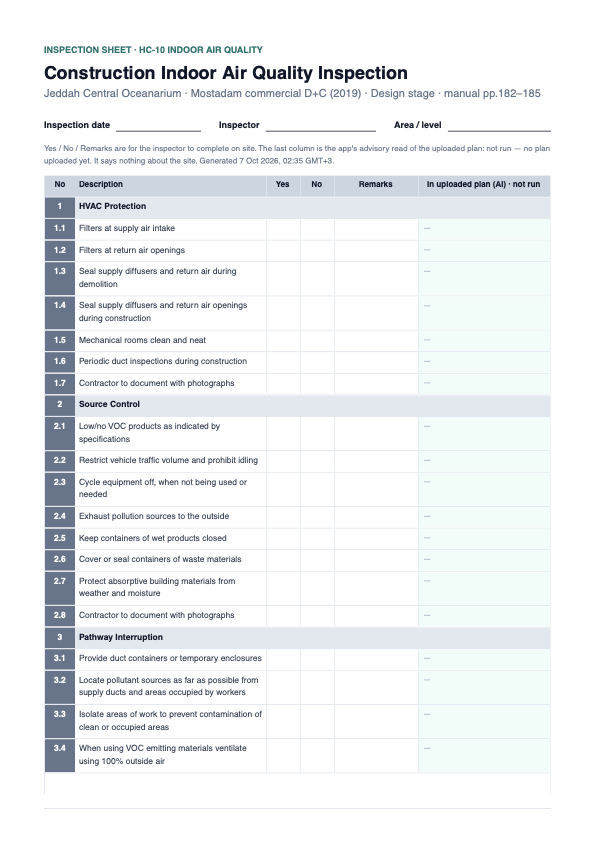
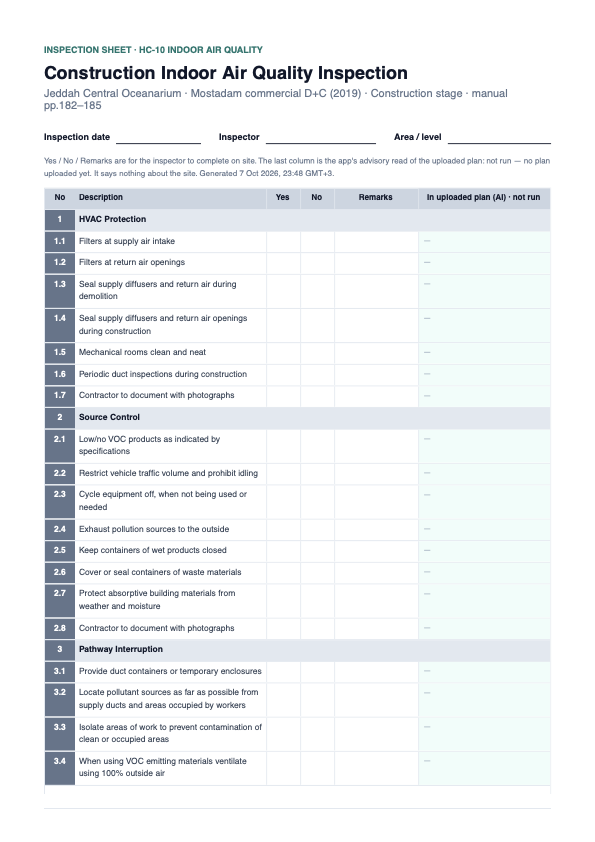
fix(report): the IAQ inspection sheet is a construction-stage form
Client feedback: the sheet is followed during construction, not design.
The header printed the project's stage, so a project at Design got a
"Design stage" sheet. The template now names the document the completed
sheet becomes ("Completed IAQ Checklist…") and the sheet takes that
document's stage tag from the catalog, which is CONSTRUCTION; an untagged
document falls back to the project's stage.

Re-downloaded both evidence sheets from the dev server: both read
Construction stage.

Changed region(s): [[0.0605, 0.0926, 0.9378, 0.9572]]

diff --git a/tests/inspection-sheet.test.ts b/tests/inspection-sheet.test.ts
@@ -1,6 +1,6 @@
 import { describe, expect, it } from "vitest";
 import type { CreditView, EvidenceAttachment, RequirementView } from "@/lib/data";
-import { buildInspectionSheet, planFileIds } from "@/lib/report/inspection-sheet";
+import { buildInspectionSheet, planFileIds, sheetStage } from "@/lib/report/inspection-sheet";
 import {
   IAQ_INSPECTION,
   templateFor,
@@ -76,6 +76,7 @@ const hc10: CreditView = {
     req({
       seq: 1,
       evidenceSpecs: ["Specifications…", "IAQ Management Plan with all control measures…", "Completed IAQ Checklist…", "Flush-out report"],
+      evidenceStages: ["design", "construction", "construction", "construction"],
       attachments: [
         file("spec", 0),
         file("plan", 1, "IAQ-Plan-rev2.pdf"),
@@ -191,5 +192,18 @@ describe("buildInspectionSheet", () => {
     ]);
     expect(m.project.stageLabel).toBe("Construction");
     expect(m.credit.pageSpan).toBe("pp.182–185");
+  });
+
+  it("is a construction-stage sheet even while the project is at design (client feedback)", () => {
+    const m = buildInspectionSheet({ ...base, stage: "design", coverage: { ran: false, reason: "x" } });
+    expect(m.project.stageLabel).toBe("Construction");
+  });
+
+  it("takes the stage from the catalog's tag, falling back to the project's when untagged", () => {
+    expect(sheetStage(hc10, IAQ_INSPECTION.sheetDocument, "design")).toBe("Construction");
+    const untagged = { ...hc10, requirements: [req({ seq: 1, evidenceSpecs: ["Completed IAQ Checklist"], evidenceStages: [null] })] };
+    expect(sheetStage(untagged, IAQ_INSPECTION.sheetDocument, "design")).toBe("Design");
+    const absent = { ...hc10, requirements: [] };
+    expect(sheetStage(absent, IAQ_INSPECTION.sheetDocument, "construction")).toBe("Construction");
   });
 });

diff --git a/lib/report/inspection-sheet.ts b/lib/report/inspection-sheet.ts
@@ -54,6 +54,27 @@ export interface SheetInput {
   coverage: CoverageOutcome;
 }
 
+const STAGE_LABEL: Record<string, string> = { design: "Design", construction: "Construction" };
+
+/**
+ * The stage the sheet is used in: the catalog's stage tag on the document the
+ * completed sheet provides (HC-10's "Completed IAQ Checklist…" is a
+ * construction-stage document). Falls back to the project's stage only when
+ * the catalog has no such document or no tag on it.
+ */
+export function sheetStage(
+  credit: CreditView,
+  sheetDocument: RegExp,
+  projectStage: ProjectStage,
+): string {
+  for (const req of credit.requirements) {
+    const i = req.evidenceSpecs.findIndex((d) => sheetDocument.test(d));
+    const tag = i >= 0 ? req.evidenceStages[i] : null;
+    if (tag && STAGE_LABEL[tag]) return STAGE_LABEL[tag];
+  }
+  return STAGE_LABEL[projectStage];
+}
+
 export function buildInspectionSheet(input: SheetInput): SheetModel {
   const { template, credit, coverage } = input;
   let covered = 0;
@@ -75,7 +96,7 @@ export function buildInspectionSheet(input: SheetInput): SheetModel {
     project: {
       name: input.projectName,
       ratingSystem: input.ratingSystem,
-      stageLabel: input.stage === "construction" ? "Construction" : "Design",
+      stageLabel: sheetStage(credit, template.sheetDocument, input.stage),
     },
     credit: {
       code: credit.code,

diff --git a/lib/report/inspection-template.ts b/lib/report/inspection-template.ts
@@ -40,6 +40,13 @@ export interface InspectionTemplate {
    * against (for the advisory coverage column). Matched on the document text.
    */
   planDocument: RegExp;
+  /**
+   * The required document this sheet becomes once completed (e.g. "Completed
+   * IAQ Checklist…"). The sheet takes its stage from that document's stage tag
+   * in the catalog, not from where the project currently is: the form is used
+   * during construction even while the project is still at design.
+   */
+  sheetDocument: RegExp;
   sections: TemplateSection[];
   /** The declaration above the signature line. */
   confirmation: string;
@@ -56,6 +63,7 @@ export const IAQ_INSPECTION: InspectionTemplate = {
   title: "Construction Indoor Air Quality Inspection",
   matches: (c) => /indoor\s+air\s+quality/i.test(c.title),
   planDocument: /IAQ\s+Management\s+Plan/i,
+  sheetDocument: /Completed\s+IAQ\s+Checklist/i,
   sections: [
     section("1", "HVAC Protection", [
       "Filters at supply air intake",

diff --git a/tests/inspection-sheet-report.test.ts b/tests/inspection-sheet-report.test.ts
@@ -23,6 +23,7 @@ const credit = {
     {
       seq: 1,
       evidenceSpecs: ["Spec", "IAQ Management Plan", "Completed IAQ Checklist"],
+      evidenceStages: ["design", "construction", "construction"],
       attachments: [
         { id: "photo", fileName: "Dust-screen.png", fileSize: 70, createdAt: 1_759_800_000, evidenceSpecIndex: 2, review: null },
       ],

diff --git a/docs/feedback/2026-10-sprint-2/02-iaq-inspection-sheet/task.md b/docs/feedback/2026-10-sprint-2/02-iaq-inspection-sheet/task.md
@@ -152,6 +152,25 @@ server and `netzero_v2`, each PDF opened and read page by page.
 | `tsc --noEmit`, `pnpm lint` | clean / 0 errors |
 | `pnpm build` | succeeds |
 
+### Client feedback — 2026-10-08: it is a construction-stage sheet
+
+> IAQ report looks good, just one comment. It will be followed during the
+> construction stage, not design stage.
+
+The header printed the *project's* stage, so Jeddah (at Design) got a sheet
+reading "Design stage". The sheet now takes its stage from the catalog: the
+template names the document the completed sheet becomes ("Completed IAQ
+Checklist…"), and that document's stage tag in the parsed manual is
+CONSTRUCTION. Not hardcoded: a sheet whose document is untagged falls back to
+the project's stage (`sheetStage`, tested). The button stays available at
+Design stage so the team can print the form ahead of time.
+
+Re-downloaded from the dev server: the Jeddah sheet (project at Design) and
+the Riyadh plan-and-photo sheet both read "Construction stage"; the evidence
+PDFs above are the new ones. The plan read gave 20/32 on this run against
+19/32 on the first, on identical plan text: the model is not deterministic,
+another reason its column is advisory and quoted.
+
 ### Left open
 
 - The CEMP site-audit sheet for SS-03 needs the team's form; the template

diff --git a/MISTAKES.md b/MISTAKES.md
@@ -153,3 +153,16 @@ the catalog's. The reader does not care whose bytes they are. A compatibility no
 **Prevention:** When a check of real output shows something a reader would object to, fix it or
 raise it explicitly in the handover; never file it under "faithful to the data" in a doc the
 client has to go looking for. A "?" in client-facing output is always a defect to chase.
+
+## 2026-10-08 — Inspection sheet labelled with the project's stage, not the form's
+
+**What happened:** The IAQ inspection sheet printed "Design stage" in its header because the
+Jeddah project is at Design. The client pointed out the sheet is followed during construction.
+
+**Root cause:** Reused the project's stage as the document's stage without asking which one the
+header means. The catalog already said it: "Completed IAQ Checklist…" is tagged CONSTRUCTION in
+the parsed manual.
+
+**Prevention:** A generated document describes itself. Take its stage (and similar attributes)
+from the catalog entry for the document it becomes, and use project state only for things that
+are about the project.
